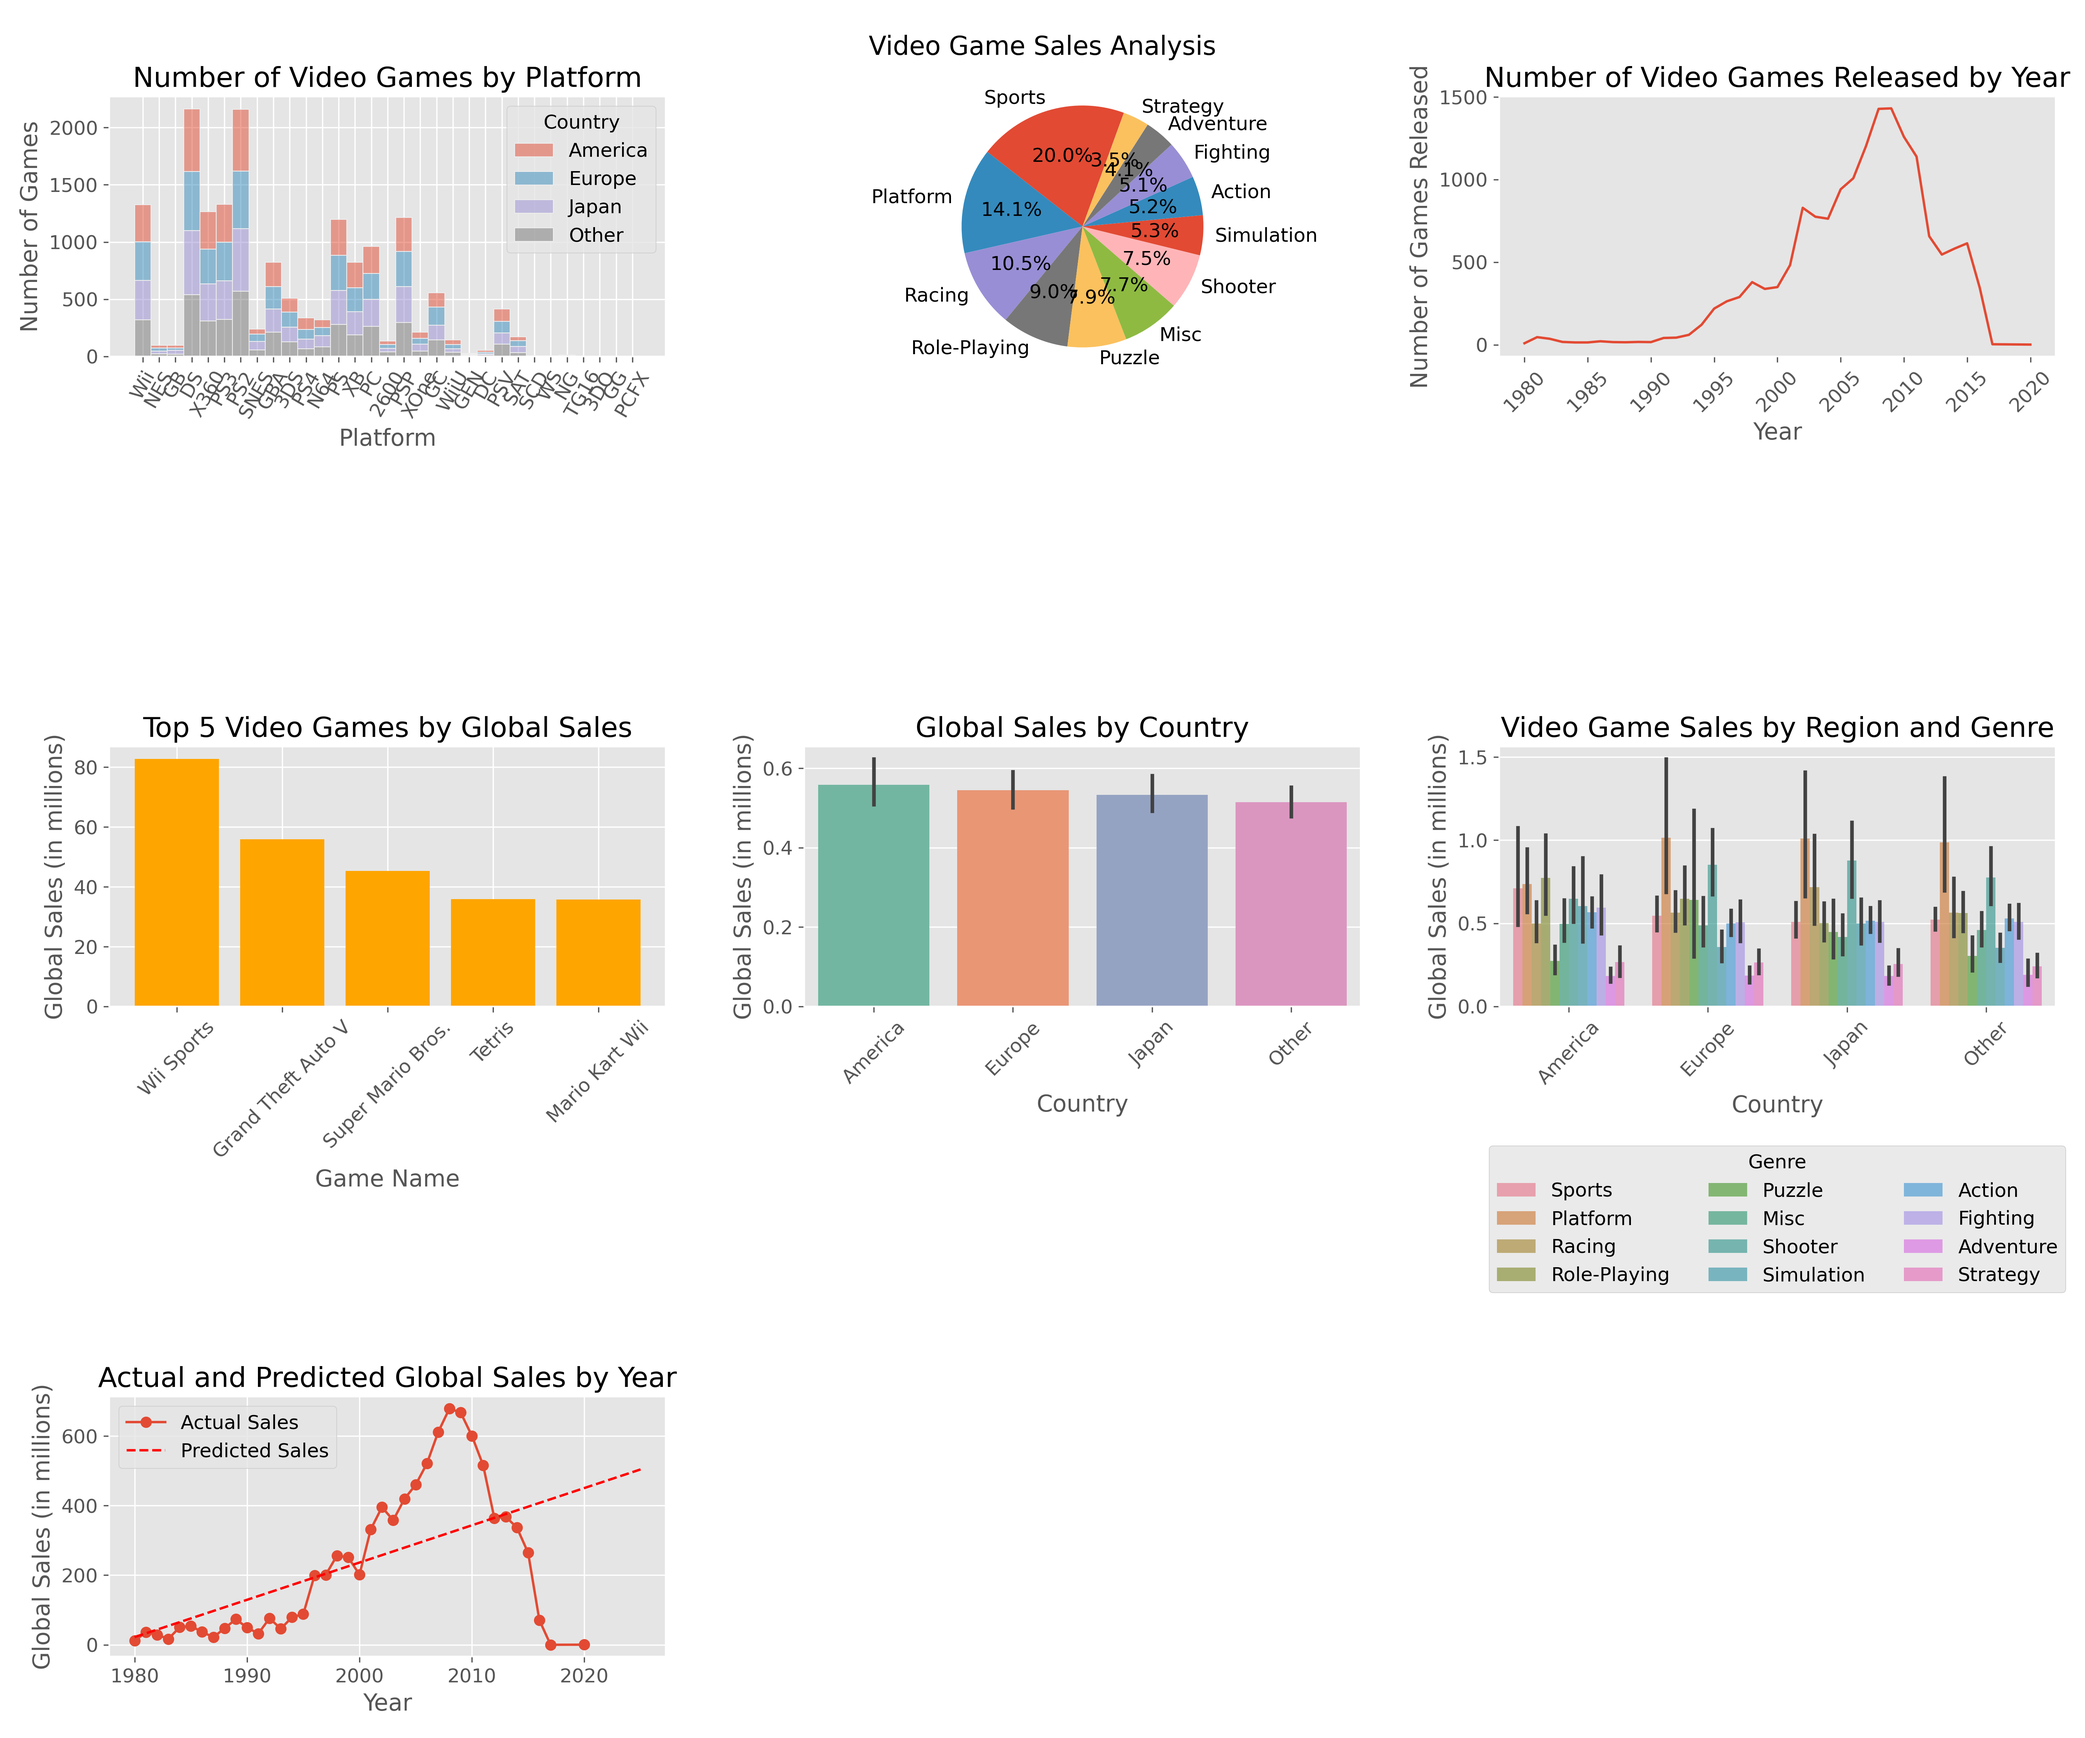
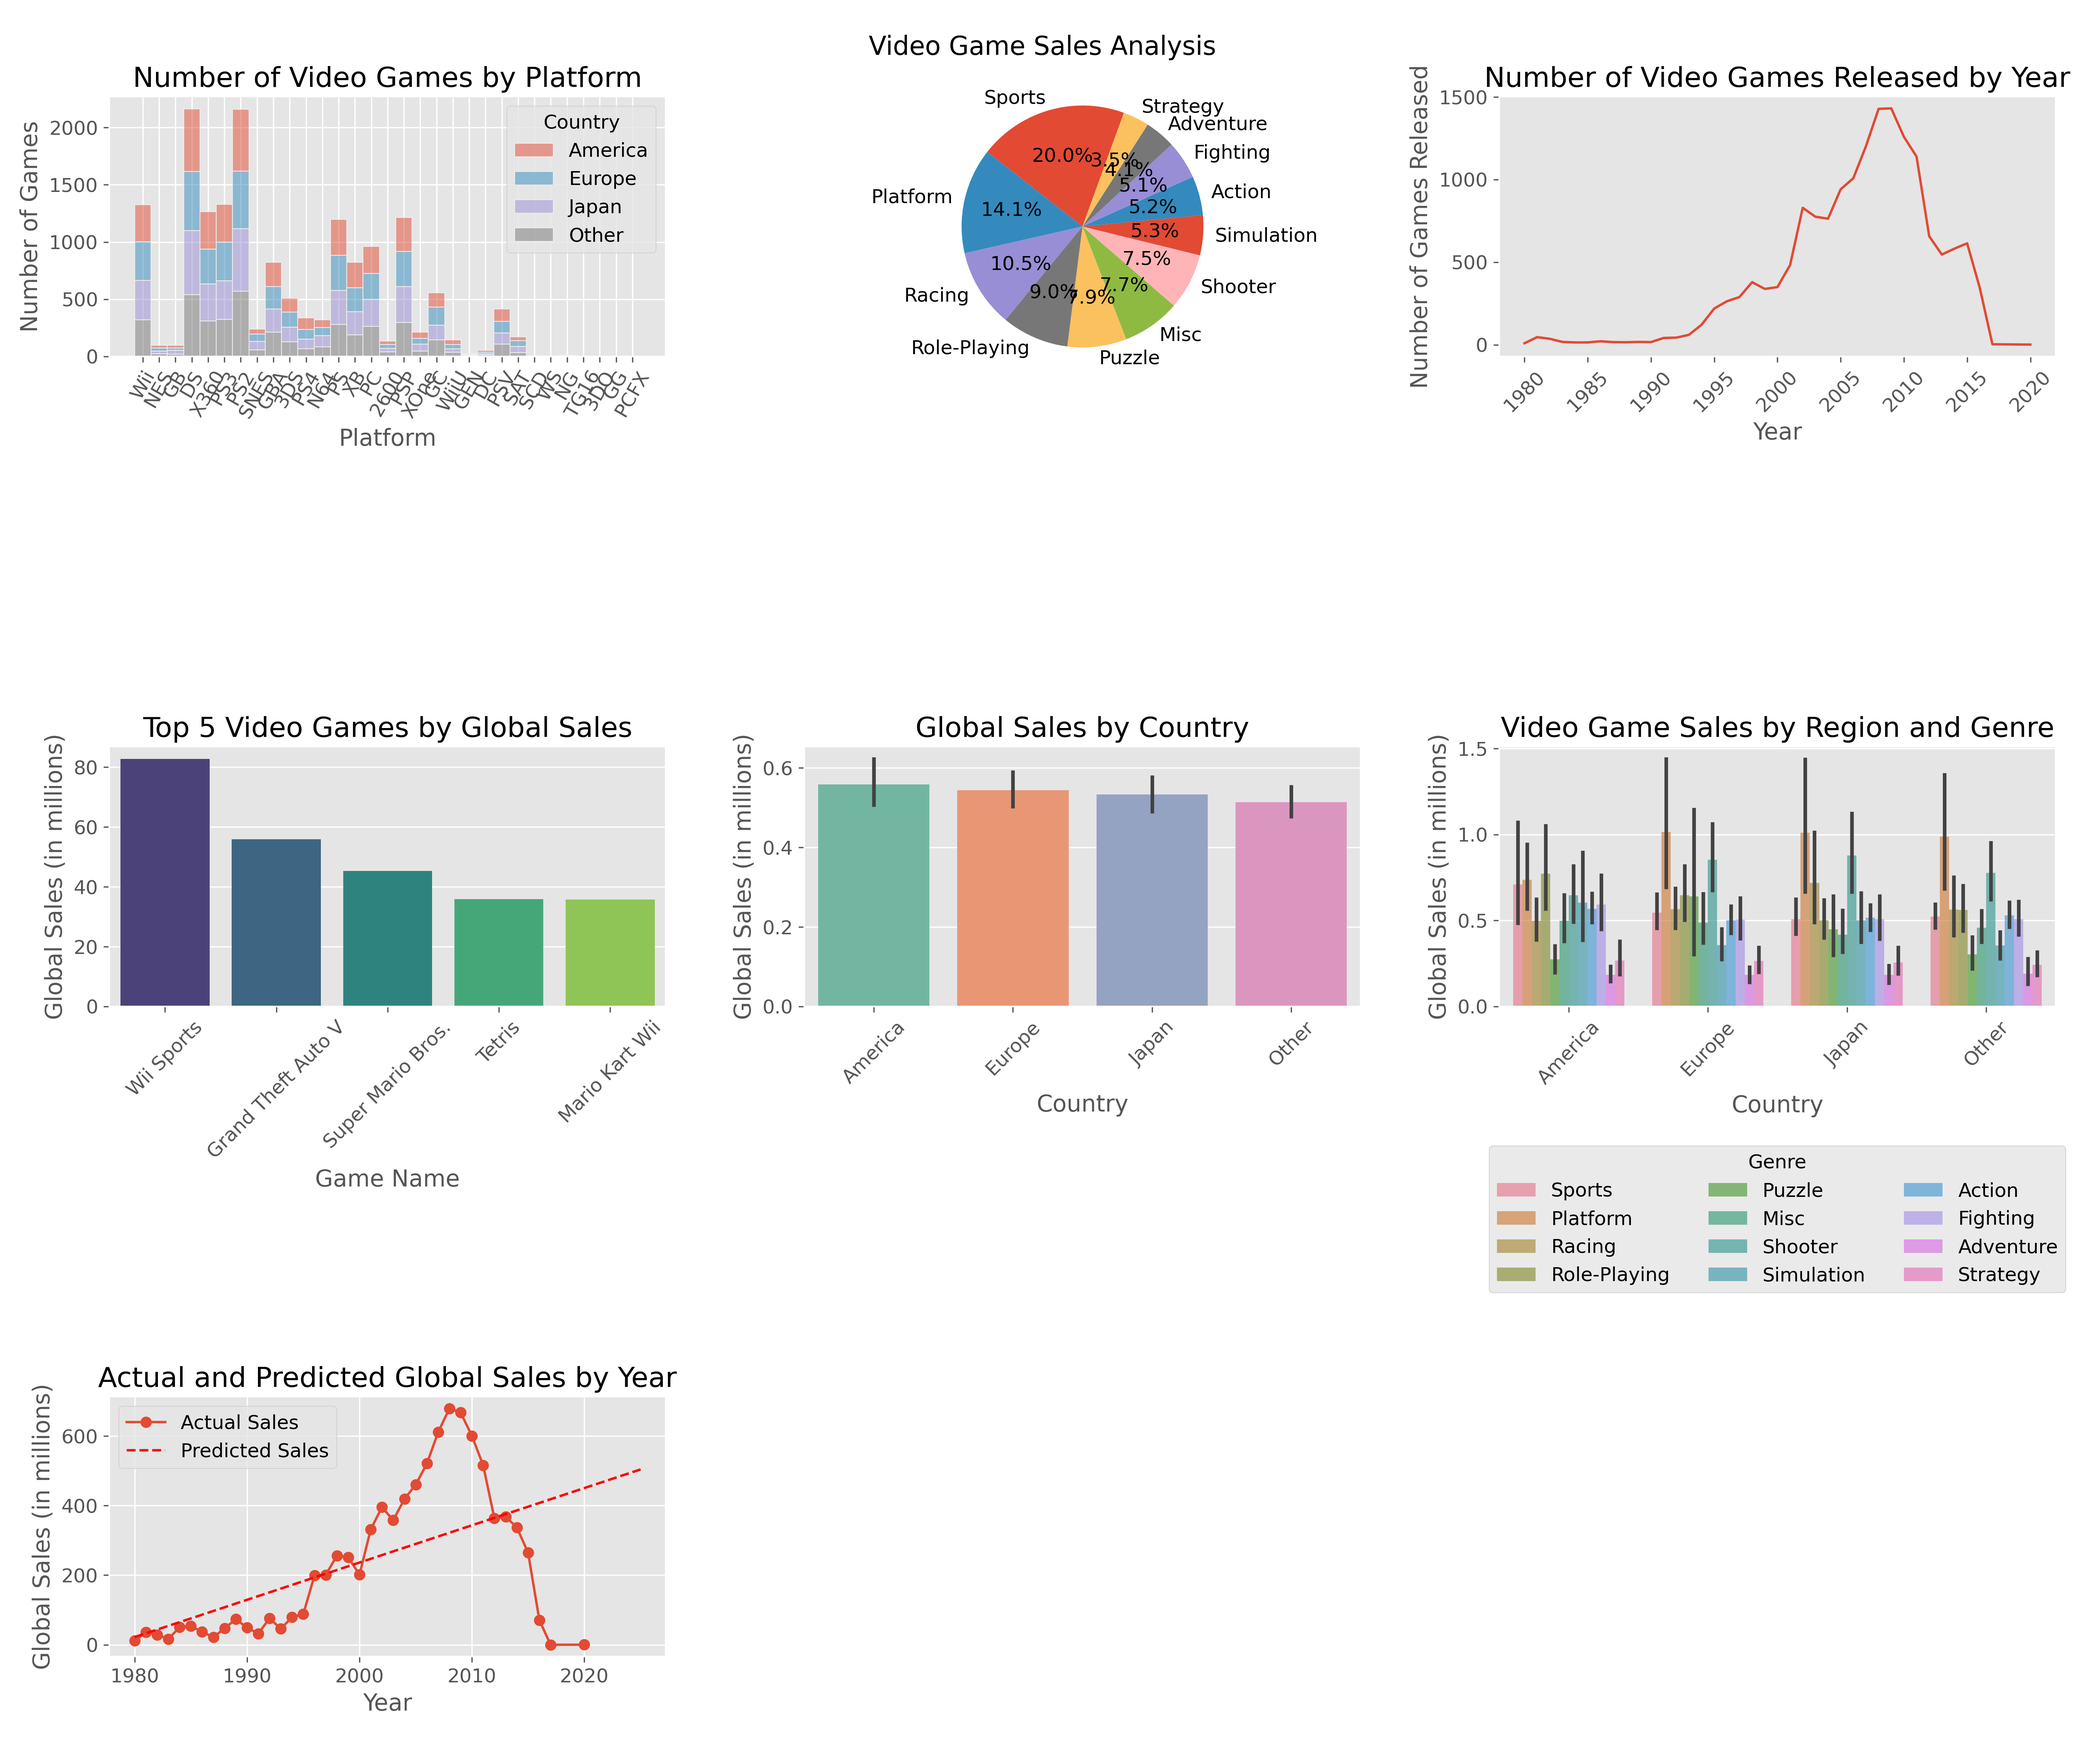
colors for num 4 graph

Changed region(s): [[0.0311, 0.4356, 0.3111, 0.6222], [0.2489, 0.6222, 0.28, 0.6533]]

diff --git a/test.py b/test.py
@@ -60,7 +60,7 @@ plt.tight_layout()
 # Plotting the top 5 video games by global sales
 
 plt.subplot(3,3,4)
-plt.bar(top5salesname, top5Salesmoney, color='orange')
+sns.barplot(x=top5salesname, y=top5Salesmoney, palette='viridis')
 plt.title('Top 5 Video Games by Global Sales')
 plt.xlabel('Game Name')
 plt.ylabel('Global Sales (in millions)')
